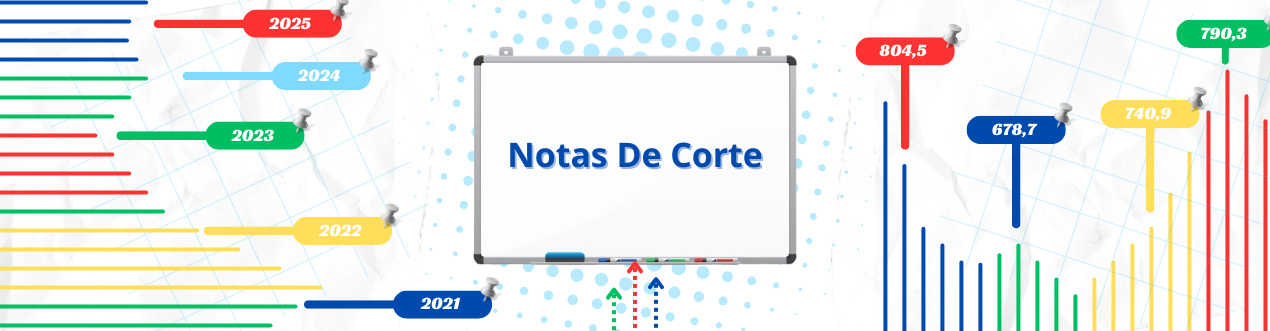
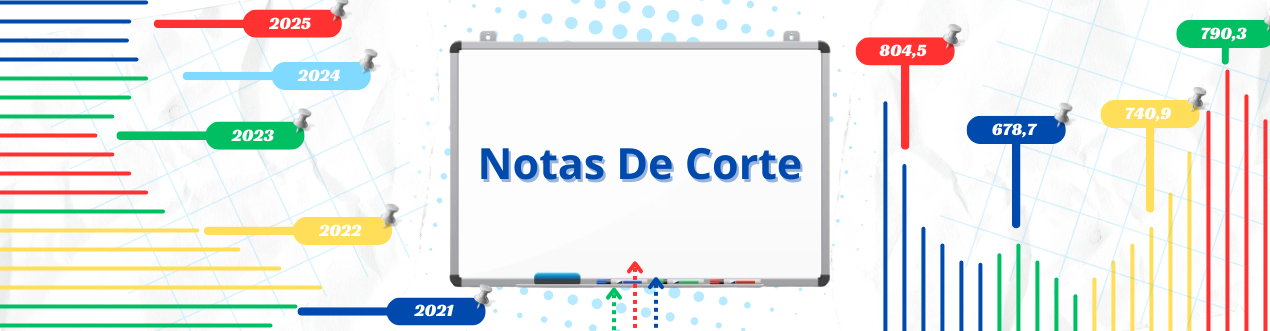
Feature/cardfix 0058/bugfix (#38)
* 👌 fix: class schedule update

* 👌 fix: Reduce the height of these page progress indicators.

* 👌 fix: correction to the cutoff score banner

* 💄 style: change the image on the about us page

* 💄 style: correction to the styling of the image on the about us page

* 🐛 fix: correction to the alignment of the FAQ columns

* :lipstick: style: removing the background from the navigation arrows

* :lipstick: style: change the background color of the carousel navigation arrows

* :bug: fix: adjust the arrows on the our presence screen

* 👌 refactor: image change

* 👌 refactor: change in footer height

* 👌 refactor: improvement in the height of page progress indicators

* 👌 refactor: improvement to the banner on the cut-off grades page.

* 👌 refactor: correction to the height of the FAQ columns

* 💄 style: improved image resolution on the about us page

Changed region(s): [[0.215, 0.0906, 0.6756, 0.997]]

diff --git a/class-schedule.html b/class-schedule.html
@@ -190,7 +190,7 @@
                         </tr>
                         <tr>
                             <td data-label="HORÁRIO">8:20</td>
-                            <td data-label="3° DSA">Sabrina (ING)</td>
+                            <td data-label="3° DSA">Júnior (MAT)</td>
                             <td data-label="3° DSB">Sylas (QUI)</td>
                             <td data-label="3° TETA">Fredson (EELET)</td>
                             <td data-label="3° TETB">Lucas (FIS)</td>
@@ -219,7 +219,7 @@
                         <tr>
                             <td data-label="HORÁRIO">13:20</td>
                             <td data-label="3° DSA">Fredson (EAUTM)</td>
-                            <td data-label="3° DSB">Sabrina (ING)</td>
+                            <td data-label="3° DSB">Júnior (MAT)</td>
                             <td data-label="3° TETA">Aline (CNIOV)</td>
                             <td data-label="3° TETB">Danilo (LPJAVA)</td>
                         </tr>
@@ -261,7 +261,7 @@
                     <tbody>
                         <tr>
                             <td data-label="HORÁRIO">7:30</td>
-                            <td data-label="3° DSA">Sabrina (ING)</td>
+                            <td data-label="3° DSA">Júnior (MAT)</td>
                             <td data-label="3° DSB">Fredson (EELET)</td>
                             <td data-label="3° TETA">Ivanlton (FIL)</td>
                             <td data-label="3° TETB">Jailton (HIS)</td>
@@ -278,7 +278,7 @@
                             <td data-label="3° DSA">Fredson (PSELEP)</td>
                             <td data-label="3° DSB">Lucas (FIS)</td>
                             <td data-label="3° TETA">Anderson (PNTWEB)</td>
-                            <td data-label="3° TETB">Sabrina (ING)</td>
+                            <td data-label="3° TETB">Júnior (MAT)</td>
                         </tr>
                         <tr>
                             <td data-label="HORÁRIO">10:20</td>
@@ -303,7 +303,7 @@
                         </tr>
                         <tr>
                             <td data-label="HORÁRIO">14:10</td>
-                            <td data-label="3° DSA">Sabrina (ING)</td>
+                            <td data-label="3° DSA">Júnior (MAT)</td>
                             <td data-label="3° DSB">Anderson (PNTWEB)</td>
                             <td data-label="3° TETA">Sylas (QUI)</td>
                             <td data-label="3° TETB">Lucas (FIS)</td>
@@ -319,7 +319,7 @@
                             <td data-label="HORÁRIO">16:10</td>
                             <td data-label="3° DSA">Jailton (HIS)</td>
                             <td data-label="3° DSB">Aline (POR)</td>
-                            <td data-label="3° TETA">Sabrina (ING)</td>
+                            <td data-label="3° TETA">Júnior (MAT)</td>
                             <td data-label="3° TETB">Sylas (STEM)</td>
                         </tr>
                     </tbody>
@@ -347,7 +347,7 @@
                         <tr>
                             <td data-label="HORÁRIO">8:20</td>
                             <td data-label="3° DSA">Aline (POR)</td>
-                            <td data-label="3° DSB">Sabrina (ING)</td>
+                            <td data-label="3° DSB">Júnior (MAT)</td>
                             <td data-label="3° TETA">Sylas (QUI)</td>
                             <td data-label="3° TETB">Geralda (GEO)</td>
                         </tr>
@@ -363,7 +363,7 @@
                             <td data-label="3° DSA">Jailton (HIS)</td>
                             <td data-label="3° DSB">Lucas (FIS)</td>
                             <td data-label="3° TETA">Aline (CNIOV)</td>
-                            <td data-label="3° TETB">Sabrina (ING)</td>
+                            <td data-label="3° TETB">Júnior (MAT)</td>
                         </tr>
                         <tr>
                             <td data-label="HORÁRIO">11:10</td>
@@ -375,7 +375,7 @@
                         <tr>
                             <td data-label="HORÁRIO">13:20</td>
                             <td data-label="3° DSA">Lucas (FIS)</td>
-                            <td data-label="3° DSB">Sabrina (ING)</td>
+                            <td data-label="3° DSB">Júnior (MAT)</td>
                             <td data-label="3° TETA">Anderson (PNTWEB)</td>
                             <td data-label="3° TETB">Aline (POR)</td>
                         </tr>
@@ -390,7 +390,7 @@
                             <td data-label="HORÁRIO">15:20</td>
                             <td data-label="3° DSA">Danilo (LPJAVA)</td>
                             <td data-label="3° DSB">Aline (CNIOV)</td>
-                            <td data-label="3° TETA">Sabrina (ING)</td>
+                            <td data-label="3° TETA">Júnior (MAT)</td>
                             <td data-label="3° TETB">Lucas (FIS)</td>
                         </tr>
                         <tr>
@@ -417,7 +417,7 @@
                     <tbody>
                         <tr>
                             <td data-label="HORÁRIO">7:30</td>
-                            <td data-label="3° DSA">Sabrina (ING)</td>
+                            <td data-label="3° DSA">Júnior (MAT)</td>
                             <td data-label="3° DSB">Jailton (HIS)</td>
                             <td data-label="3° TETA">Fredson (EELET)</td>
                             <td data-label="3° TETB">Danilo (LPJAVA)</td>
@@ -432,7 +432,7 @@
                         <tr>
                             <td data-label="HORÁRIO">9:10</td>
                             <td data-label="3° DSA">Anderson (PNTWEB)</td>
-                            <td data-label="3° DSB">Sabrina (ING)</td>
+                            <td data-label="3° DSB">Júnior (MAT)</td>
                             <td data-label="3° TETA">Sylas (STEM)</td>
                             <td data-label="3° TETB">Fredson (PSELEP)</td>
                         </tr>
@@ -453,7 +453,7 @@
                         <tr>
                             <td data-label="HORÁRIO">13:20</td>
                             <td data-label="3° DSA">Jailton (HIS)</td>
-                            <td data-label="3° DSB">Sabrina (ING)</td>
+                            <td data-label="3° DSB">Júnior (MAT)</td>
                             <td data-label="3° TETA">Fredson (EELET)</td>
                             <td data-label="3° TETB">Danilo (LPJAVA)</td>
                         </tr>
@@ -468,7 +468,7 @@
                             <td data-label="HORÁRIO">15:20</td>
                             <td data-label="3° DSA">Geralda (GEO)</td>
                             <td data-label="3° DSB">Danilo (LPJAVA)</td>
-                            <td data-label="3° TETA">Sabrina (ING)</td>
+                            <td data-label="3° TETA">Júnior (MAT)</td>
                             <td data-label="3° TETB">Fredson (PSELEP)</td>
                         </tr>
                         <tr>
@@ -498,7 +498,7 @@
                             <td data-label="3° DSA">Ivanlton (FIL)</td>
                             <td data-label="3° DSB">Jailton (HIS)</td>
                             <td data-label="3° TETA">Fredson (EAUTM)</td>
-                            <td data-label="3° TETB">Sabrina (ING)</td>
+                            <td data-label="3° TETB">Júnior (MAT)</td>
                         </tr>
                         <tr>
                             <td data-label="HORÁRIO">8:20</td>
@@ -516,7 +516,7 @@
                         </tr>
                         <tr>
                             <td data-label="HORÁRIO">10:20</td>
-                            <td data-label="3° DSA">Sabrina (ING)</td>
+                            <td data-label="3° DSA">Júnior (MAT)</td>
                             <td data-label="3° DSB">Ivanlton (FIL)</td>
                             <td data-label="3° TETA">Lucas (FIS)</td>
                             <td data-label="3° TETB">Danilo (LPJAVA)</td>
@@ -532,7 +532,7 @@
                             <td data-label="HORÁRIO">13:20</td>
                             <td data-label="3° DSA">Anderson (PNTWEB)</td>
                             <td data-label="3° DSB">Jailton (HIS)</td>
-                            <td data-label="3° TETA">Sabrina (ING)</td>
+                            <td data-label="3° TETA">Júnior (MAT)</td>
                             <td data-label="3° TETB">Fredson (PSELEP)</td>
                         </tr>
                         <tr>
@@ -547,7 +547,7 @@
                             <td data-label="3° DSA">Geralda (GEO)</td>
                             <td data-label="3° DSB">Fredson (EAUTM)</td>
                             <td data-label="3° TETA">Ivanlton (FIL)</td>
-                            <td data-label="3° TETB">Sabrina (ING)</td>
+                            <td data-label="3° TETB">Júnior (MAT)</td>
                         </tr>
                         <tr>
                             <td data-label="HORÁRIO">16:10</td>

diff --git a/css/style.css b/css/style.css
@@ -674,7 +674,7 @@
 
 #carousel-hero .owl-nav .owl-prev:hover,
 #carousel-hero .owl-nav .owl-next:hover {
-  box-shadow: inset 0 0 100px 0 var(--bs-secondary);
+  box-shadow: inset 0 0 100px 0 var(--bs-primary);
   color: var(--bs-white);
 }
 
@@ -1833,6 +1833,7 @@
 .about {
     margin-top: 6rem;
 }
+
 /*** About End ***/
 
 
@@ -1991,6 +1992,7 @@
     color: var(--bs-primary);
     background: var(--bs-light);
 }
+
 /*** FAQs End ***/
 
 
@@ -3264,9 +3266,6 @@
 .swiper-button-next {
     width: 40px !important;
     height: 40px !important;
-    background: rgba(255, 255, 255, 0.9);
-    border-radius: 50%;
-    box-shadow: 0 2px 10px rgba(0, 0, 0, 0.1);
     display: flex;
     align-items: center;
     justify-content: center;
@@ -3287,24 +3286,35 @@
     right: 0px !important;
 }
 
-.swiper-button-prev:hover,
-.swiper-button-next:hover {
-    background: #3653f7;
-}
-
 .swiper-button-prev:hover::after,
 .swiper-button-next:hover::after {
     color: white;
 }
 
+.swiper {
+  padding-bottom: 70px !important; /* dá espaço para as bolinhas */
+}
+
+.swiper .swiper-pagination {
+  overflow: visible !important;
+  padding-bottom: 15px ; /* dá espaço para as bolinhas */
+}
+
 .swiper-pagination {
-    bottom: 10px !important;
+  bottom: -5px !important; /* empurra para baixo */
+  position: absolute;
+  z-index: 10;
+}
+
+.header-carousel,
+.header-carousel-item {
+  overflow: visible !important; /* impede que o carrossel esconda as bolinhas */
 }
 
 .swiper-pagination-bullet {
     width: 12px !important;
     height: 12px !important;
-    margin: 0 6px !important;
+    margin: 0 10px 0 !important;
 }
 
 @media (max-width:1000px) {

diff --git a/FAQ.html b/FAQ.html
@@ -155,7 +155,7 @@
         <!-- FAQs Start -->
         <section class="container-fluid faq-section bg-light py-5">
             <div class="container py-5">
-                <div class="row g-5 align-items-center">
+                <div class="row g-5 align-items-start">
                     <!-- Coluna das perguntas -->
                     <div class="col-lg-6 col-12 wow fadeInLeft" data-wow-delay="0.2s">
                         <div class="h-100">

diff --git a/about.html b/about.html
@@ -210,7 +210,7 @@
         <!-- FAQs Start -->
         <div class="container-fluid faq-section bg-light pb-5">
             <div class="container pb-5">
-                <div class="row g-5 align-items-center">
+                <div class="row g-5 align-items-start">
                     <div class="col-xl-6 wow fadeInLeft" data-wow-delay="0.2s">
                         <div class="h-100">
                             <div class="mb-5">

diff --git a/js/main.js b/js/main.js
@@ -148,8 +148,8 @@ document.addEventListener('DOMContentLoaded', function () {
         margin: 25,
         nav: true,
         navText: [
-            '<i class="fa fa-arrow-left"></i>',
-            '<i class="fa fa-arrow-right"></i>'
+          '<i class="fa fa-arrow-right"></i>',
+          '<i class="fa fa-arrow-left"></i>'
         ],
         responsiveClass: true,
         responsive: {
